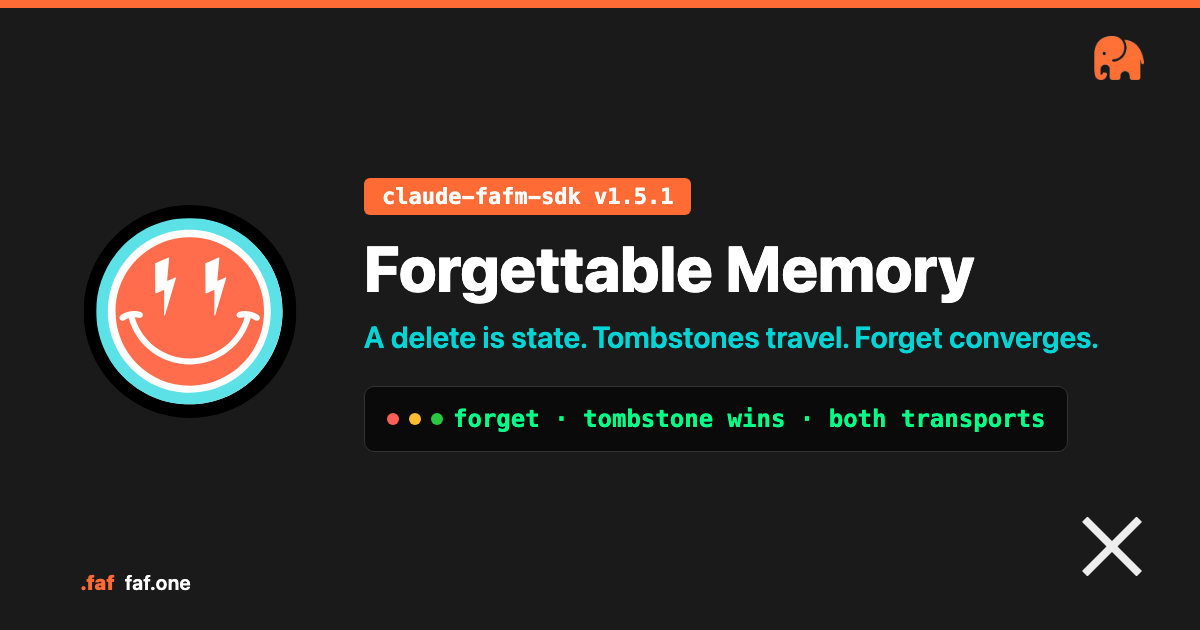
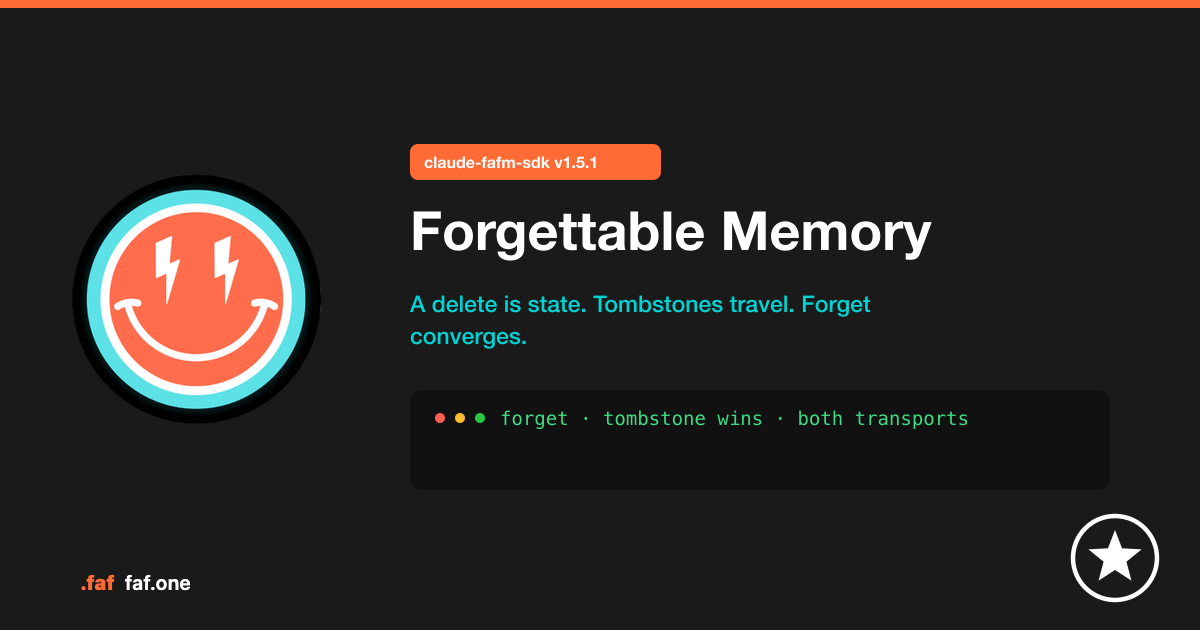
fix(blog): Forgettable Memory hero — no PyPI, ✪ not X
Regenerate series card without corner PyPI elephant chrome.
BR seal is geometric Proof Seal ✪ (--seal proof), never an X.
Page version-tag 🏆→✪ (work surface); cache-bust ?v=2.
gen-brand-card gains --seal star|proof|none.

diff --git a/src/routes/blog/forgettable-memory/+page.svelte b/src/routes/blog/forgettable-memory/+page.svelte
@@ -31,10 +31,10 @@ uvx claude-fafm-sdk --version`;
 	<meta property="og:type" content="article" />
 	<meta property="og:url" content="https://faf.one/blog/forgettable-memory" />
 	<meta property="og:site_name" content=".faf Format Authority" />
-	<meta property="og:image" content="https://faf.one/blog/forgettable-memory-hero.png?v=1" />
+	<meta property="og:image" content="https://faf.one/blog/forgettable-memory-hero.png?v=2" />
 	<meta
 		property="og:image:secure_url"
-		content="https://faf.one/blog/forgettable-memory-hero.png?v=1"
+		content="https://faf.one/blog/forgettable-memory-hero.png?v=2"
 	/>
 	<meta property="og:image:type" content="image/png" />
 	<meta property="og:image:width" content="1200" />
@@ -51,7 +51,7 @@ uvx claude-fafm-sdk --version`;
 		name="twitter:description"
 		content="A delete is state. Tombstones travel. Forget converges on both transports."
 	/>
-	<meta name="twitter:image" content="https://faf.one/blog/forgettable-memory-hero.png?v=1" />
+	<meta name="twitter:image" content="https://faf.one/blog/forgettable-memory-hero.png?v=2" />
 	<meta
 		name="twitter:image:alt"
 		content="Forgettable Memory — claude-fafm-sdk v1.5.1 · convergent delete via tombstones"
@@ -64,7 +64,7 @@ uvx claude-fafm-sdk --version`;
 			<a href="/">Home</a> / <a href="/blog">Blog</a> / Forgettable Memory
 		</div>
 		<h1>Forgettable Memory</h1>
-		<p class="version-tag">claude-fafm-sdk v1.5.1 · Forgettable Memory · 🏆</p>
+		<p class="version-tag">claude-fafm-sdk v1.5.1 · Forgettable Memory · ✪</p>
 		<p class="subtitle">
 			1.4 proved <em>which key</em> sealed a packet; 1.5 makes a delete
 			<strong>state</strong> — tombstones travel the lattice, and forget
@@ -79,7 +79,7 @@ uvx claude-fafm-sdk --version`;
 
 	<div class="hero-image">
 		<img
-			src="/blog/forgettable-memory-hero.png?v=1"
+			src="/blog/forgettable-memory-hero.png?v=2"
 			alt="Forgettable Memory — claude-fafm-sdk v1.5.1. A delete is state; tombstones travel; forget converges."
 			width="1200"
 			height="630"

diff --git a/scripts/BRAND-CARDS.md b/scripts/BRAND-CARDS.md
@@ -69,7 +69,35 @@ node scripts/gen-brand-card.mjs \
 2. Commit PNG + page  
 3. Push / deploy  
 
+## Dark seals
+
+| `--seal` | Asset | Use |
+|----------|--------|-----|
+| `star` (default) | `dark-star.png` | series chrome (filled star in circle) |
+| `proof` | rendered **✪** | Proof Seal / work-surface 100% |
+| `none` | — | no BR seal |
+
+**Never** place an X / close glyph as a seal. **Never** default PyPI elephant unless the release is explicitly Py-registry marketing (`--badge both`).
+
+### Forgettable Memory (1.5.1)
+
+```bash
+node scripts/gen-brand-card.mjs \
+  --template dark \
+  --mark faf \
+  --title "Forgettable Memory" \
+  --subtitle "A delete is state. Tombstones travel. Forget converges." \
+  --pill "claude-fafm-sdk v1.5.1" \
+  --terminal "forget  ·  tombstone wins  ·  both transports" \
+  --badge none \
+  --seal proof \
+  --out static/blog/forgettable-memory-hero.png
+cp static/blog/forgettable-memory-hero.png static/blog-assets/forgettable-memory-hero.png
+# bump ?v=N on the page
+```
+
 ## Lesson (1.4)
 
 Do **not** redraw smileys or invent Py badges.  
-Dark = **Fam mark** + **locked chrome**. Text is the only thing you rewrite.
+Dark = **Fam mark** + **locked chrome**. Text is the only thing you rewrite.  
+No PyPI chrome unless intentional. Seal is star or **✪** — never X.
